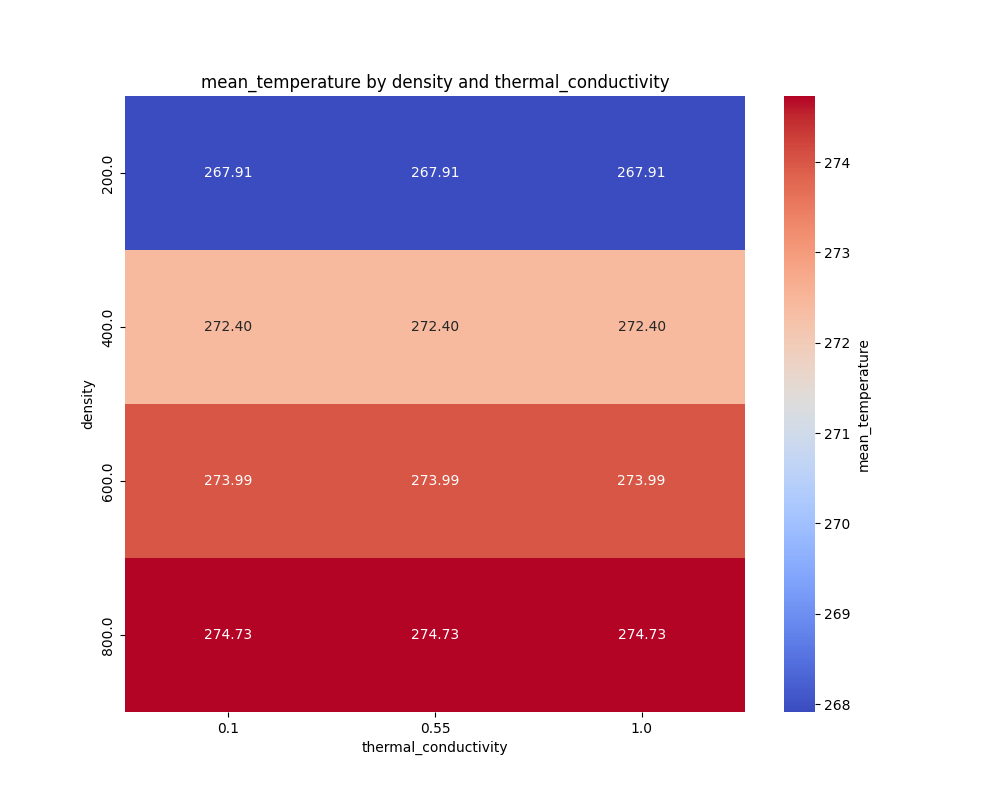
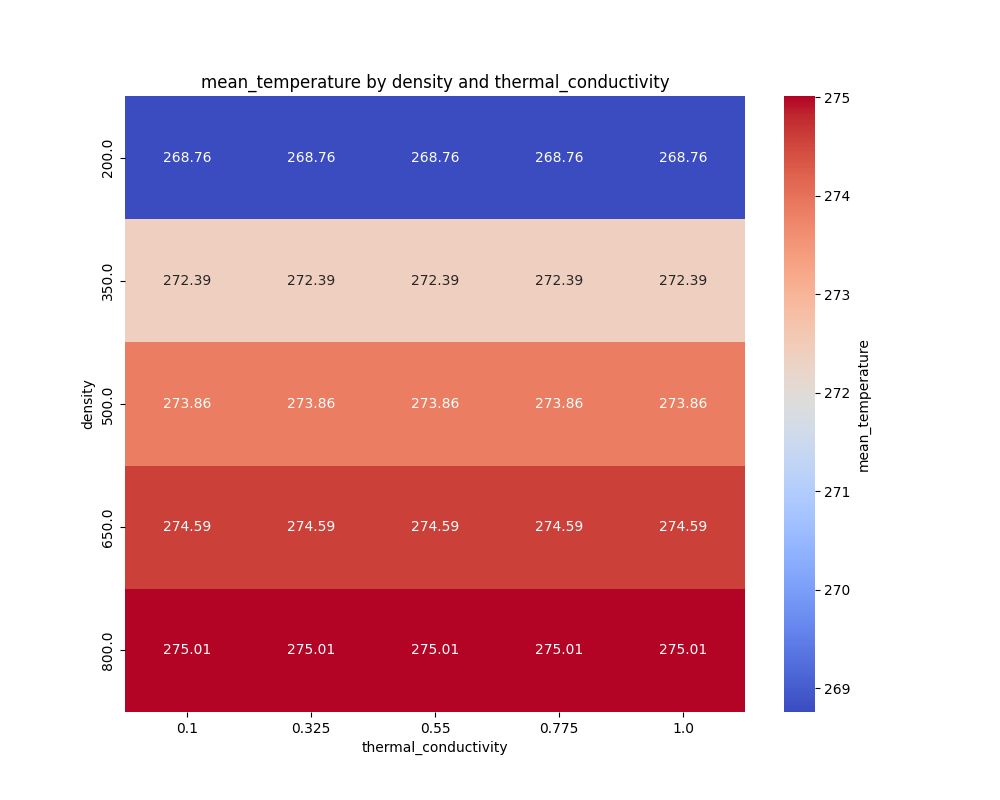
Parallelised thermophysical_simulation_runner.py so it uses more cores

diff --git a/thermophysical_simulation_runner.py b/thermophysical_simulation_runner.py
@@ -21,6 +21,7 @@ TODO:
 Author: Duncan Lyster
 """
 
+import concurrent.futures
 import time
 import matplotlib.pyplot as plt
 import seaborn as sns
@@ -38,89 +39,100 @@ from thermophysical_body_model import (
     calculate_secondary_radiation_coefficients
 )
 
-# Model setup and initialization
-shape_model_name = "5km_ico_sphere_80_facets.stl"
-path_to_shape_model_file = f"shape_models/{shape_model_name}"
-path_to_setup_file = "model_setups/generic_model_parameters.json"
-simulation = Simulation(path_to_setup_file)
-shape_model = read_shape_model(path_to_shape_model_file, simulation.timesteps_per_day, simulation.n_layers, simulation.max_days)
+def run_model_with_parameters(combination, shape_model_snapshot, path_to_setup_file, param_names):
+    simulation = Simulation(path_to_setup_file)  # Create a new simulation instance for thread safety
 
-# Model component calculations
-shape_model = calculate_visible_facets(shape_model)
-shape_model = calculate_insolation(shape_model, simulation)
-shape_model = calculate_initial_temperatures(shape_model, simulation.n_layers, simulation.emissivity)
-shape_model = calculate_secondary_radiation_coefficients(shape_model)
+    # No need for a global param_names variable as it is now passed as a parameter
 
-# Parameters for analysis with their ranges
-parameter_ranges = {
-    'density': np.linspace(200, 800, 4),  # Example ranges
-    'thermal_conductivity': np.linspace(0.1, 1.0, 3),
-    'specific_heat_capacity': np.linspace(500, 2500, 3),
-    # Add or remove parameters as needed
-}
-
-# Generate all combinations of parameter values
-param_names = list(parameter_ranges.keys())
-param_values = [parameter_ranges[name] for name in param_names]
-all_combinations = list(product(*param_values))
-
-# Results storage
-results = []
-
-# Exploration execution
-print("Starting parameter exploration...")
-for combination in tqdm.tqdm(all_combinations, desc="Parameter combinations"):
-    # Update simulation parameters
+    # Update simulation parameters for the current combination
     for param_name, value in zip(param_names, combination):
         setattr(simulation, param_name, value)
     
-    # Run the model
+    # Run the thermophysical model and calculate statistics
     start_time = time.time()
-    final_timestep_temperatures = thermophysical_body_model(shape_model, simulation)
+    final_timestep_temperatures = thermophysical_body_model(shape_model_snapshot, simulation)
     execution_time = time.time() - start_time
 
-    # Calculate statistics
-    mean_temperature = np.mean(final_timestep_temperatures)
-    temperature_iqr = np.percentile(final_timestep_temperatures, 75) - np.percentile(final_timestep_temperatures, 25)
-
-    # Store results
-    results.append({
+    return {
         'parameters': dict(zip(param_names, combination)),
-        'mean_temperature': mean_temperature,
-        'temperature_iqr': temperature_iqr,
+        'mean_temperature': np.mean(final_timestep_temperatures),
+        'temperature_iqr': np.percentile(final_timestep_temperatures, 75) - np.percentile(final_timestep_temperatures, 25),
         'execution_time': execution_time
-    })
+    }
 
-# Convert the list of results to a DataFrame
-results_df = pd.DataFrame(results)
 
-# Flatten the 'parameters' dictionary into separate columns for easier analysis
-# Assuming 'results_df' is already defined and contains a 'parameters' column with dictionary-like data
-parameters_df = pd.json_normalize(results_df['parameters'])
-results_df = pd.concat([results_df.drop(columns=['parameters']), parameters_df], axis=1)
+def main():
+    # Model setup and initialization
+    shape_model_name = "5km_ico_sphere_80_facets.stl"
+    path_to_shape_model_file = f"shape_models/{shape_model_name}"
+    path_to_setup_file = "model_setups/generic_model_parameters.json"
+    simulation = Simulation(path_to_setup_file)
+    shape_model = read_shape_model(path_to_shape_model_file, simulation.timesteps_per_day, simulation.n_layers, simulation.max_days)
 
-output_folder = "runner_outputs/"
+    # Model component calculations
+    shape_model = calculate_visible_facets(shape_model)
+    shape_model = calculate_insolation(shape_model, simulation)
+    shape_model = calculate_initial_temperatures(shape_model, simulation.n_layers, simulation.emissivity)
+    shape_model = calculate_secondary_radiation_coefficients(shape_model)
 
-# Function to generate and save heatmaps
-def generate_heatmaps(df, parameters, value_column):
-    for param_pair in combinations(parameters, 2):  # Get all combinations of parameter pairs
-        pivot_table = df.pivot_table(index=param_pair[0], columns=param_pair[1], values=value_column, aggfunc="mean")
-        plt.figure(figsize=(10, 8))
-        sns.heatmap(pivot_table, annot=True, fmt=".2f", cmap="coolwarm", cbar_kws={'label': value_column})
-        plt.title(f'{value_column} by {param_pair[0]} and {param_pair[1]}')
-        plt.xlabel(param_pair[1])
-        plt.ylabel(param_pair[0])
-        plt.savefig(f"{output_folder}heatmap_{param_pair[0]}_vs_{param_pair[1]}.png")  # Save each heatmap as a PNG file
-        plt.close()  # Close the figure to avoid displaying it inline if running in a notebook
+    # Parameters for analysis with their ranges
+    parameter_ranges = {
+        'density': np.linspace(200, 800, 5),  # Example ranges
+        'thermal_conductivity': np.linspace(0.1, 1.0, 5),
+        'specific_heat_capacity': np.linspace(500, 2500, 5),
+        # Add or remove parameters as needed
+    }
 
-# Call the function for mean_temperature
-generate_heatmaps(results_df, param_names, 'mean_temperature')
+    param_names = list(parameter_ranges.keys())
+    param_values = [parameter_ranges[name] for name in param_names]
+    all_combinations = list(product(*param_values))
 
-print("Heatmaps generated and saved.")
+    # Include param_names with each combination
+    param_combinations_with_shape_model = [
+        (combination, shape_model, path_to_setup_file, param_names) for combination in all_combinations
+    ]
 
-csv_file_path = "runner_outputs/thermophysical_model_results.csv"
+    # Parallel exploration execution
+    print("Starting parameter exploration...")
+    with concurrent.futures.ProcessPoolExecutor() as executor:
+        futures = [executor.submit(run_model_with_parameters, *params) for params in param_combinations_with_shape_model]
+        results = list(tqdm.tqdm(concurrent.futures.as_completed(futures), total=len(futures)))
 
-# Save the DataFrame to a CSV file
-results_df.to_csv(csv_file_path, index=False)
+    results = [f.result() for f in futures]
 
-print("Results saved to 'thermophysical_model_results.csv'.")
+    # Convert the list of results to a DataFrame
+    results_df = pd.DataFrame(results)
+
+    # Flatten the 'parameters' dictionary into separate columns for easier analysis
+    # Assuming 'results_df' is already defined and contains a 'parameters' column with dictionary-like data
+    parameters_df = pd.json_normalize(results_df['parameters'])
+    results_df = pd.concat([results_df.drop(columns=['parameters']), parameters_df], axis=1)
+
+    output_folder = "runner_outputs/"
+
+    # Function to generate and save heatmaps
+    def generate_heatmaps(df, parameters, value_column):
+        for param_pair in combinations(parameters, 2):  # Get all combinations of parameter pairs
+            pivot_table = df.pivot_table(index=param_pair[0], columns=param_pair[1], values=value_column, aggfunc="mean")
+            plt.figure(figsize=(10, 8))
+            sns.heatmap(pivot_table, annot=True, fmt=".2f", cmap="coolwarm", cbar_kws={'label': value_column})
+            plt.title(f'{value_column} by {param_pair[0]} and {param_pair[1]}')
+            plt.xlabel(param_pair[1])
+            plt.ylabel(param_pair[0])
+            plt.savefig(f"{output_folder}heatmap_{param_pair[0]}_vs_{param_pair[1]}.png")  # Save each heatmap as a PNG file
+            plt.close()  # Close the figure to avoid displaying it inline if running in a notebook
+
+    # Call the function for mean_temperature
+    generate_heatmaps(results_df, param_names, 'mean_temperature')
+
+    print("Heatmaps generated and saved.")
+
+    csv_file_path = "runner_outputs/thermophysical_model_results.csv"
+
+    # Save the DataFrame to a CSV file
+    results_df.to_csv(csv_file_path, index=False)
+
+    print("Results saved to 'thermophysical_model_results.csv'.")
+
+if __name__ == '__main__':
+    main()
